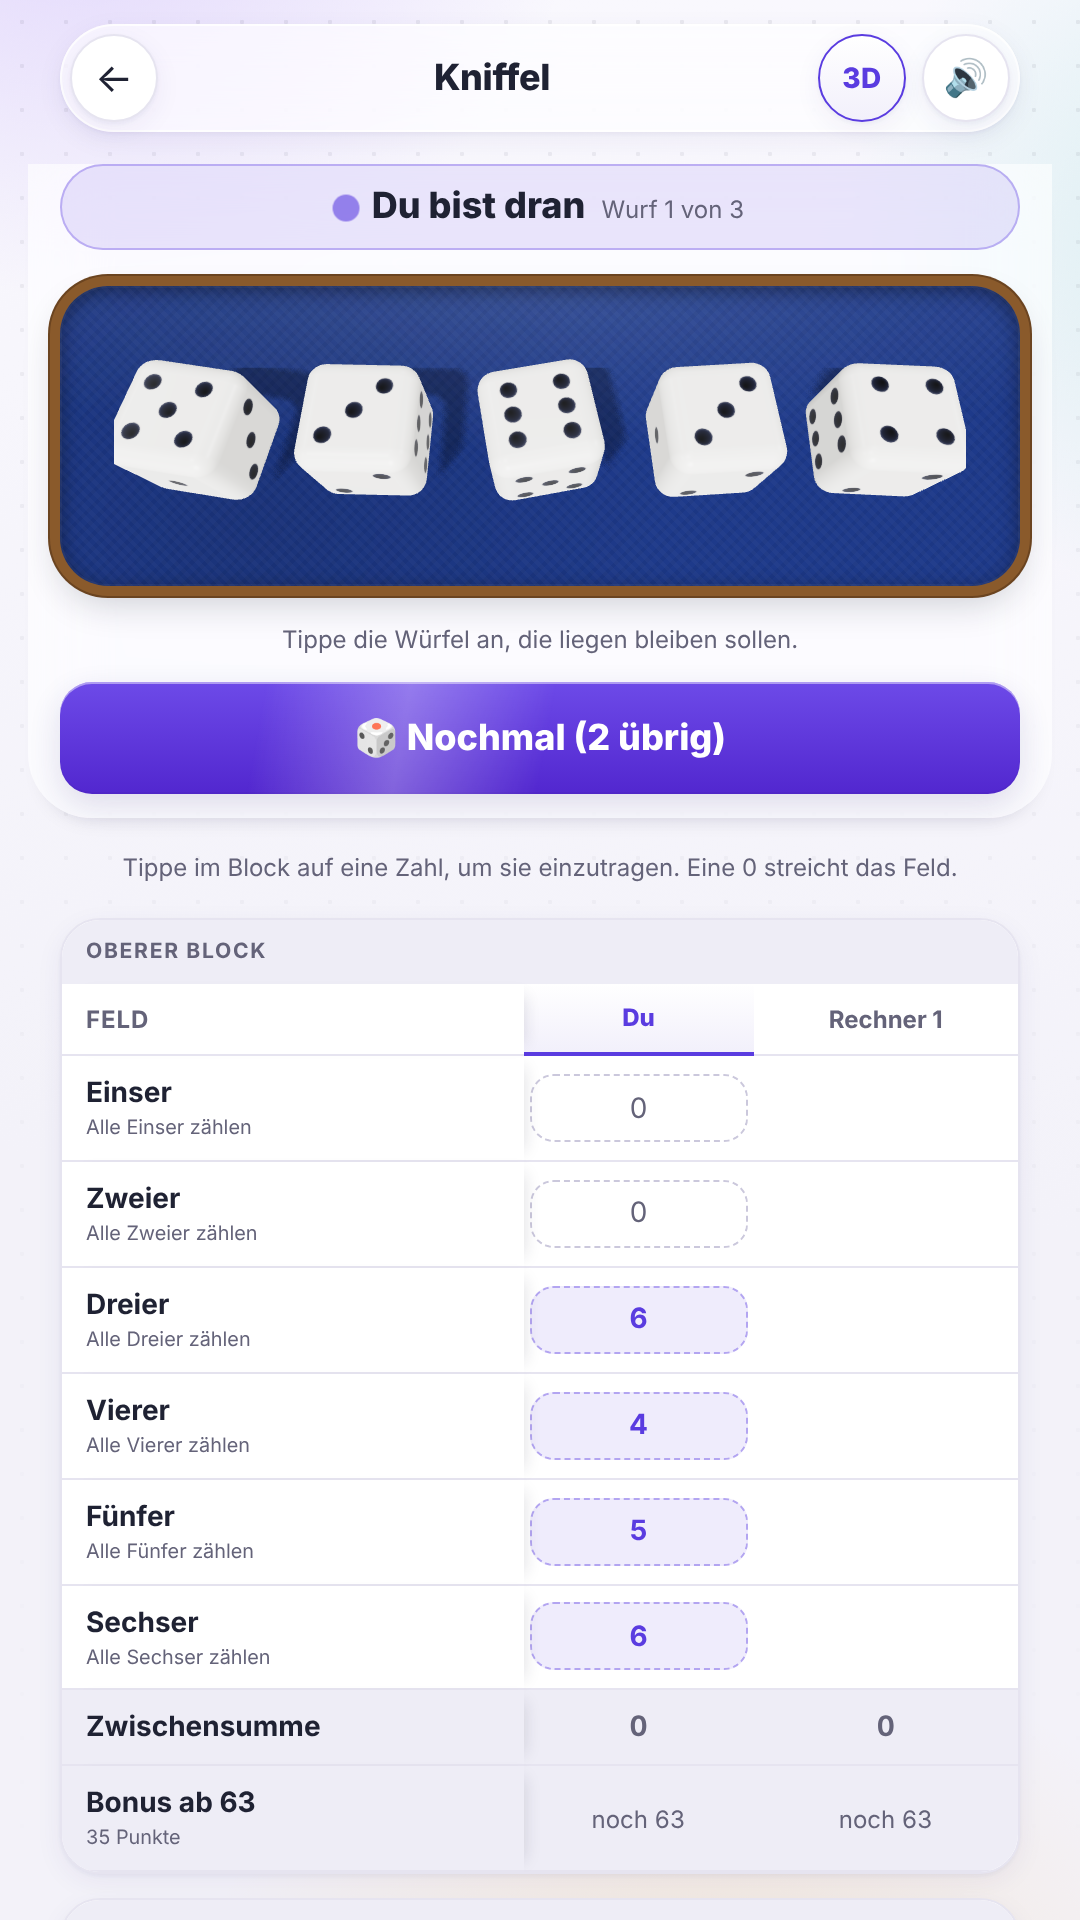
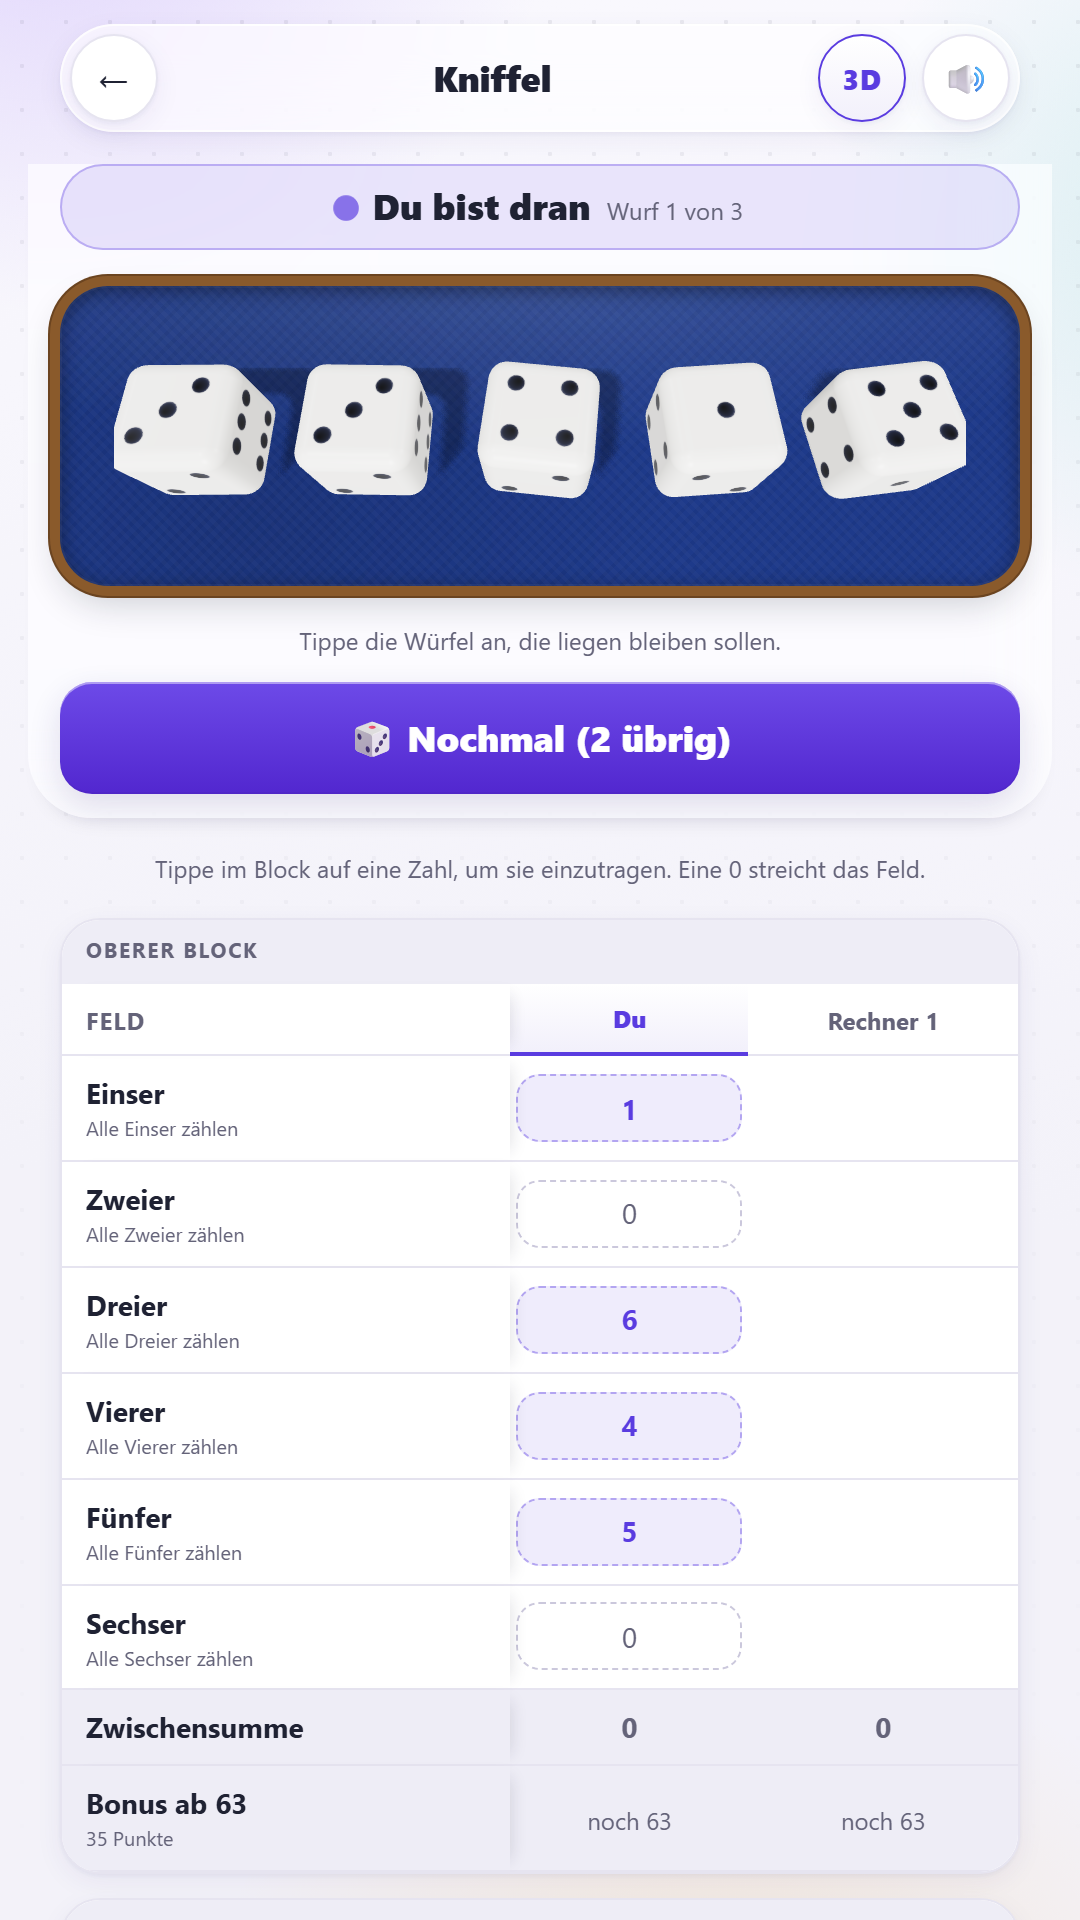
Store-Eintrag auf Englisch, deutscher Eintrag berichtigt
eintrag-en.md: englische Texte fuer die Play Console (en-US), fuer
englische Spieler geschrieben. Kniffel heisst dort "dice game" --
Googles Richtlinie fuer Store-Texte verbietet fremde Marken.

build-store-assets.mjs kann jetzt auch Englisch (`... en` nach
docs/store/en/): Funktionsbild und acht Bildschirmfotos mit der App auf
Englisch. Die deutschen Bilder neu erzeugt, sie zeigten noch die App von
vor den letzten Aenderungen.

Im deutschen Eintrag stimmten zwei Spielbeschreibungen nicht (Bienen-
Flow ist kein Schwarm-Spiel, Squishy kein Stapelspiel), Wortbombe stand
unter den Einzelspielen, bei Online fehlten vier Spiele, und "kein
freier Chat" gilt erst seit Migration 030. Dazu der Hinweis auf beide
Sprachen. Checkliste: Schritt 3a fuer die englische Uebersetzung.

diff --git a/docs/store/eintrag-en.md b/docs/store/eintrag-en.md
@@ -1,0 +1,96 @@
+# Play-Store-Eintrag auf Englisch – fertige Texte
+
+Die englische Übersetzung des Eintrags. In der Play Console unter
+**Wachstum → Store-Präsenz → Haupt-Store-Eintrag → Übersetzungen verwalten →
+Übersetzungen hinzufügen → Englisch (Vereinigte Staaten) – en-US** anlegen,
+dann die Felder unten einfügen. Wer auch Großbritannien eigens bedienen
+will, legt **en-GB** mit denselben Texten an; Google zeigt sonst en-US.
+
+Die Texte sind für englische Spieler geschrieben, nicht Satz für Satz
+übersetzt. Die Bilder liegen in [`en/`](en/) und werden mit
+`npm run build && node scripts/build-store-assets.mjs en` neu erzeugt.
+
+**Kein Markenname im Eintrag.** In der App heißt Kniffel auf Englisch
+„Yahtzee-style Dice“ (so entschieden am 06.11.2026). Im Store-Text steht
+es trotzdem als „dice game“: Googles Richtlinie für Store-Texte verbietet
+fremde Marken ohne Erlaubnis, und Yahtzee gehört Hasbro.
+
+Alles Übrige (Kategorie, Kontakt, Datenschutz-Adresse, Fragebögen) gilt
+für alle Sprachen gleich und steht in [`eintrag.md`](eintrag.md).
+
+---
+
+## App-Name (max. 30 Zeichen)
+
+```
+TE-Mini Games
+```
+
+## Kurzbeschreibung (max. 80 Zeichen)
+
+```
+21 quick games for any moment – solo, for two or with the whole group.
+```
+
+(70 Zeichen.)
+
+## Vollständige Beschreibung (max. 4000 Zeichen)
+
+```
+Just one more round.
+
+TE-Mini Games is a collection of short games for the minutes in between: at
+the bus stop, on a break, for two at the kitchen table or for six in the
+living room. No round takes more than a few minutes, and you can stop
+whenever you like.
+
+SKILL AND REACTION
+• The Perfect Second – stop the clock on the second, to the hundredth.
+  500 levels through five worlds, from the jungle to the ice palace.
+• Bee Flow – send out colour blocks and let the bees clear a picture pixel
+  by pixel. Five slots, then the colony is stuck.
+• Squishy Dumplings – three dumplings in a row, against the clock.
+• Trapbound – a platformer where the floor lies.
+• Emberwake – find light in a dark world before your ember goes out.
+
+BRAIN AND MEMORY
+• Sudoku – 150 puzzles in three tiers. Every tier is its own path.
+• What's missing? – remember what was there a moment ago.
+• Remember the Order – the sequence gets longer every time.
+• Mental Maths – quick sums against the clock.
+
+DICE, CARDS AND BOARD
+• Dice game – thirteen boxes, three rolls, a bonus from 63. Every further
+  five of a kind is worth 100 extra points.
+• Texas Hold'em – a tournament against the computer or online against
+  others.
+• Mau-Mau and Last Card – two ways to play, every house rule switchable.
+• Schützenopoly – a board game around German marksmen's festivals, with 22
+  real festivals from all over Germany.
+
+FOR GROUPS – ONE PHONE IS ENOUGH
+• Find the Imposter, Who am I?, Categories, Charades, Word Bomb, Who would
+  rather?, Marksmen Round – the phone goes once round the table.
+
+ONLINE AGAINST EACH OTHER
+The dice game, Texas Hold'em, Mau-Mau, Last Card, Schützenopoly, Marksmen
+Round, Find the Imposter, Who am I? and Categories can also be played
+online: open a table, share the code, play.
+
+IN ENGLISH AND GERMAN
+The app speaks both languages – with its own English words and questions
+for the guessing games, not translated German ones.
+
+NO SIGNAL NEEDED
+Playing, points, XP, badges and group mode all work without internet.
+You only go online when you want to.
+
+WHAT'S NOT IN IT
+No ads. No in-game purchases. No tracking, no analytics. An account is
+optional and only needed for online games and the leaderboard; without one,
+everything stays on your device. You can delete your account in the app
+itself.
+
+Poker is played with play money. There is nothing to buy and nothing to
+win.
+```

diff --git a/docs/store/eintrag.md b/docs/store/eintrag.md
@@ -1,5 +1,8 @@
 # Play-Store-Eintrag – fertige Texte
 
+> Englische Fassung: [`eintrag-en.md`](eintrag-en.md), Bilder dazu in
+> [`en/`](en/).
+
 Alles, was Google beim Anlegen des Eintrags in ein Feld verlangt. Zum
 Kopieren gedacht. Die Zeichengrenzen stehen dabei, weil die Play Console
 stumm abschneidet.
@@ -45,8 +48,9 @@ Minuten, und man kann jederzeit aufhören.
 GESCHICK UND REAKTION
 • Die perfekte Sekunde – triff die Sekunde auf die Hundertstel genau. 500
   Level durch fünf Welten, vom Urwald bis zum Eispalast.
-• Bienen-Flow – führe die Biene durch den Schwarm.
-• Squishy Dumplings – stapeln, bis es nicht mehr geht.
+• Bienen-Flow – schick Farbblöcke los und lass die Bienen ein Bild
+  Pixel für Pixel abtragen. Fünf Plätze, dann steht die Kolonie.
+• Squishy Dumplings – drei gleiche Knödel in eine Reihe, gegen die Uhr.
 • Trapbound – ein Sprungspiel, bei dem der Boden lügt.
 • Emberwake – finde Licht in einer dunklen Welt, bevor der Kern ausgeht.
 
@@ -55,7 +59,6 @@ KOPF UND GEDÄCHTNIS
 • Was fehlt? – merken, was eben noch da war.
 • Reihenfolge – die Kette wird jedes Mal länger.
 • Kopfrechnen – schnelles Rechnen gegen die Uhr.
-• Wortbombe – ein Wort, bevor die Zeit abläuft.
 
 WÜRFEL, KARTEN UND BRETT
 • Kniffel – dreizehn Felder, drei Würfe, Bonus ab 63. Jeder weitere Kniffel
@@ -68,11 +71,17 @@ WÜRFEL, KARTEN UND BRETT
 
 IN DER GRUPPE, EIN GERÄT REICHT
 • Finde den Imposter, Wer bin ich?, Stadt Land Fluss, Scharade,
-  Wer würde eher, Schützenrunde – das Handy wandert einmal um den Tisch.
+  Wortbombe, Wer würde eher, Schützenrunde – das Handy wandert einmal
+  um den Tisch.
 
 ONLINE GEGENEINANDER
-Kniffel, Texas Hold'em, Mau-Mau, Letzte Karte und Schützenopoly lassen sich
-auch online spielen: Tisch aufmachen, Code weitergeben, losspielen.
+Kniffel, Texas Hold'em, Mau-Mau, Letzte Karte, Schützenopoly,
+Schützenrunde, Finde den Imposter, Wer bin ich? und Stadt Land Fluss lassen
+sich auch online spielen: Tisch aufmachen, Code weitergeben, losspielen.
+
+AUF DEUTSCH UND ENGLISCH
+Die App spricht beide Sprachen – mit eigenen englischen Wörtern und Fragen
+für die Ratespiele, nicht übersetzten deutschen.
 
 OHNE NETZ
 Spielen, Punkte, XP, Abzeichen und der Gruppenmodus laufen ohne Internet.
@@ -114,7 +123,8 @@ Zwei Fragen ehrlich beantworten, sonst fliegt der Eintrag später auf:
   Einstufung ab 12 oder 16 Jahren -- das ist normal und kein Fehler.
 - **Nutzer können miteinander kommunizieren: ja, eingeschränkt.** In den
   Online-Spielen sehen Mitspieler den selbst gewählten Benutzernamen. Einen
-  freien Chat gibt es nicht.
+  freien Chat gibt es nicht: In der Schützenrunde wählt man am Tag einen
+  von festen Sätzen, und der Server nimmt nur diese an (Migration 030).
 
 ### Datensicherheit (Data safety)
 

diff --git a/docs/store/play-console-todo.md b/docs/store/play-console-todo.md
@@ -221,7 +221,7 @@ die Zeichenzahlen sind nachgerechnet.
 | ------------------------------------- | --------------------------------------- |
 | App-Name (max. 30)                    | `TE-Mini Games`                         |
 | Kurzbeschreibung (max. 80)            | `eintrag.md`, 72 Zeichen                |
-| Vollständige Beschreibung (max. 4000) | `eintrag.md`, 2157 Zeichen              |
+| Vollständige Beschreibung (max. 4000) | `eintrag.md`, 2437 Zeichen              |
 | App-Symbol 512 × 512                  | `docs/store/app-symbol-512x512.png`     |
 | Funktionsbild 1024 × 500              | `docs/store/funktionsbild-1024x500.png` |
 | Telefon-Screenshots                   | `docs/store/telefon-*.png` (acht Stück) |
@@ -234,6 +234,23 @@ in `docs/store/` ist dasselbe Bild als RGBA.
 - [ ] Symbol hochgeladen
 - [ ] Funktionsbild hochgeladen
 - [ ] mindestens zwei Screenshots hochgeladen (es dürfen bis zu acht sein)
+
+### 3a. Englische Übersetzung
+
+> **Haupt-Store-Eintrag** → **Übersetzungen verwalten** → **Übersetzungen
+> hinzufügen** → **Englisch (Vereinigte Staaten) – en-US**
+
+Die App ist zweisprachig, also auch der Eintrag. Texte in
+[`eintrag-en.md`](eintrag-en.md) (Kurzbeschreibung 70 Zeichen, Beschreibung
+2373), Bilder in `docs/store/en/` -- dort ist die App auf Englisch zu sehen.
+Ohne englische Bilder zeigt Google die deutschen; das geht, wirkt aber
+halbfertig.
+
+Nicht „Übersetzen lassen“ anklicken: Google übersetzt dann maschinell und
+verlangt Geld dafür.
+
+- [ ] en-US angelegt, Texte eingefügt
+- [ ] englisches Funktionsbild und Screenshots hochgeladen
 
 ---
 
